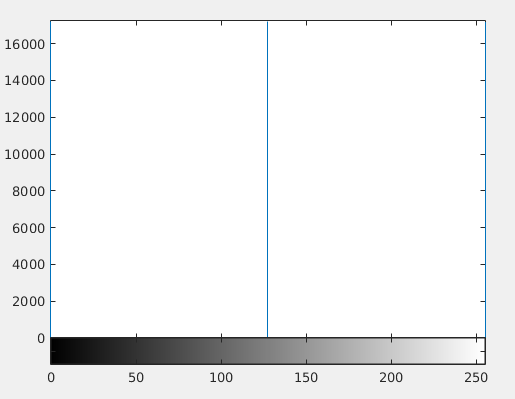
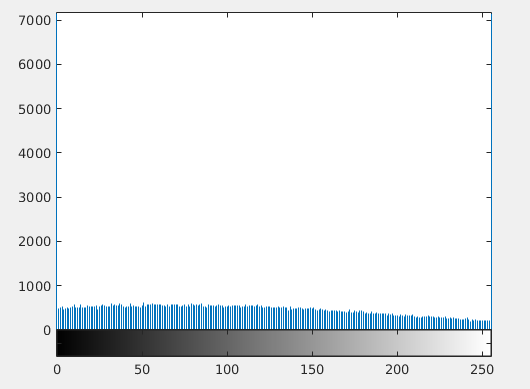
NB_S1_Hist has been repaired

Changed region(s): [[0.0, 0.0308, 0.9631, 0.9871]]

diff --git a/MarkovRandomField/src/naive_bayes_segmentation.m b/MarkovRandomField/src/naive_bayes_segmentation.m
@@ -6,8 +6,6 @@ simage = imread('../test1.bmp');
 simage = simage(:,:,1);
 %simage = rgb2gray(simage);
 orig_image = simage;
-figure;
-imhist(simage);
 
 noise_mean = 0 ;
 noise_variance = 0.1 ;
@@ -37,6 +35,7 @@ g2 = g2/sg ;
 
 
 simage = imnoise(simage,'gaussian', noise_mean,noise_variance);
+imhist(simage);
 figure;
 title('noisy_input');
 image = double(simage);
